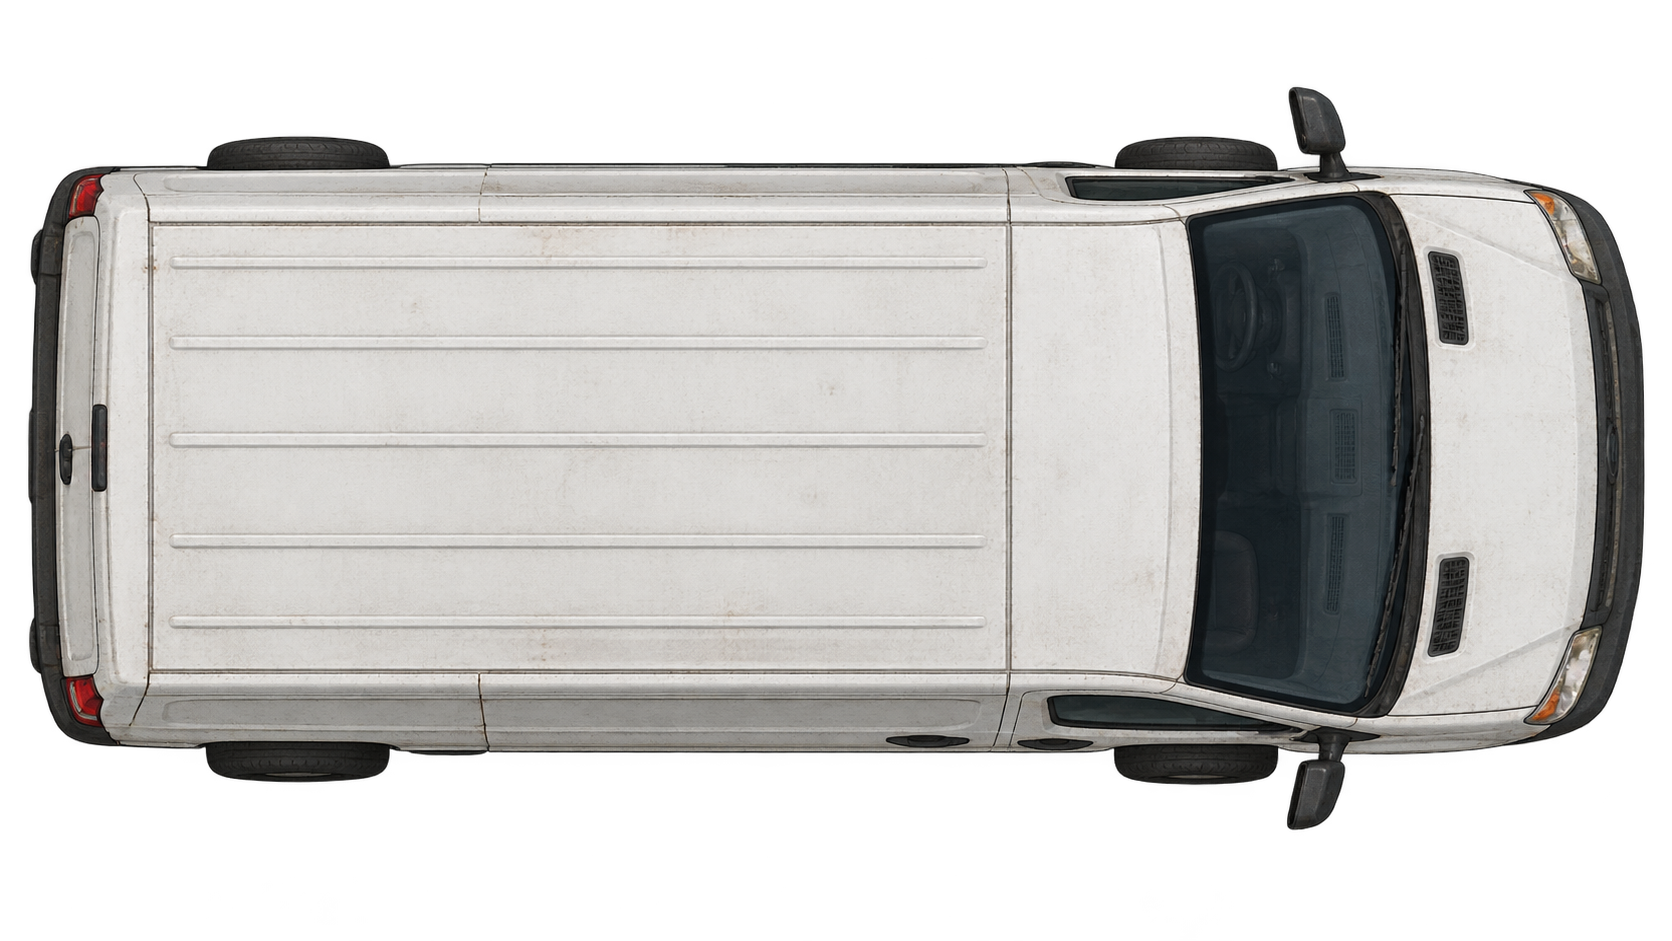
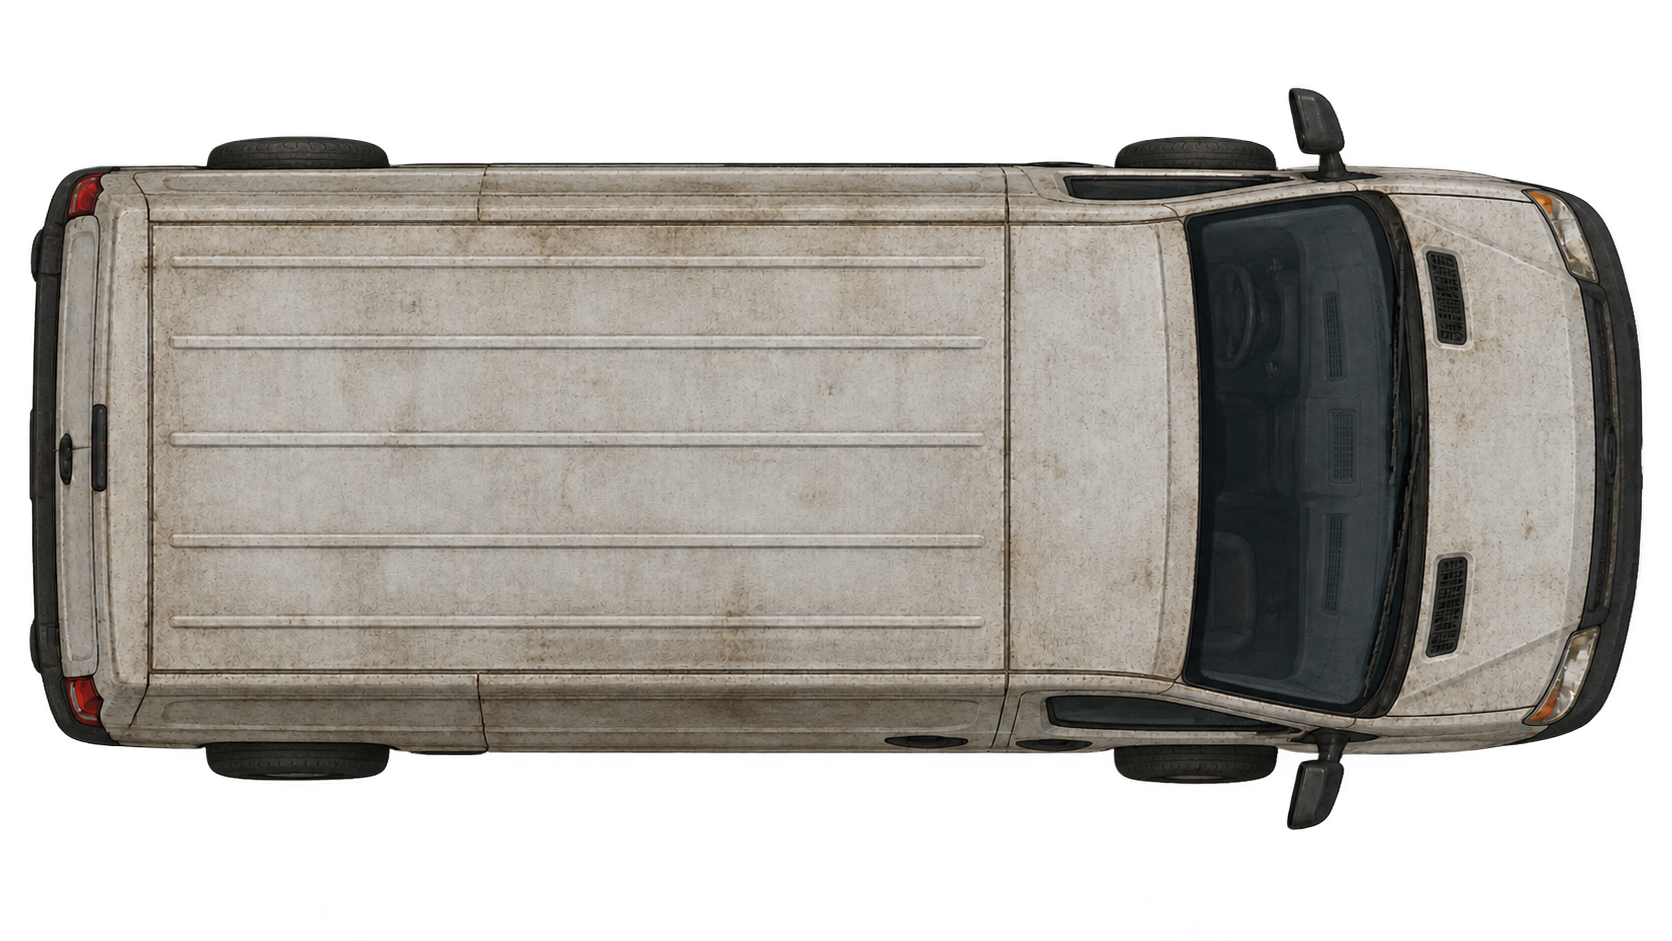
Add batch 2 directional vehicle damage assets

diff --git a/assets/incoming/cars/directional-damage-batch2-v1/DIRECTIONAL_DAMAGE_BATCH2_PROMPTS_v1.md b/assets/incoming/cars/directional-damage-batch2-v1/DIRECTIONAL_DAMAGE_BATCH2_PROMPTS_v1.md
@@ -1,0 +1,66 @@
+# Directional Damage — Batch 2 Prompts v1
+
+## Included identities
+
+- taxi
+- SUV
+- police cruiser
+- Humvee
+- hatchback
+- box truck
+
+## Deliberately skipped repeats and terminal states
+
+- grey sedan
+- faded-red sedan
+- pickup
+- panel van
+- burned wreck
+- overturned car
+
+The repeated vehicle identities already have directional-damage sets. The wreck and overturned car are terminal states rather than intact vehicles suitable for four directional branches.
+
+## Orientation and filenames
+
+All sprites use a strict 90-degree top-down view with the nose pointing right.
+
+- `*_shot_front.png`: fire enters at the right/nose and exits at the left/rear.
+- `*_shot_rear.png`: fire enters at the left/rear and exits at the right/nose.
+- `*_shot_driver_side.png`: fire enters along the upper edge and exits along the lower edge.
+- `*_shot_passenger_side.png`: fire enters along the lower edge and exits along the upper edge.
+
+Each direction is an independent branch made from the intact source, not a cumulative damage ladder.
+
+## Common damage prompt
+
+> Edit this exact intact vehicle into a localized directional pass-through gunfire-damage branch. Concentrate approximately 70% of the visible damage on the entry face using denser bullet strikes, stronger dents, and localized broken glass. Add approximately 30% as fewer, cleaner, aligned exit punctures with lighter outward deformation on the opposite face. Keep the broad middle and unrelated panels mostly intact, with at least 60% of the vehicle visually undamaged. Preserve the exact vehicle model, paint and wear, wheelbase, trim, wheels, equipment, strict 90-degree top-down view, nose pointing right, scale, placement, lighting, and silhouette. Use genuine transparent alpha. No global or symmetrical damage, random hits outside the trajectory, burn, scorch, fire, smoke, scenery, added text, logos, or watermark.
+
+## Identity locks
+
+### Taxi
+
+Preserve the yellow sedan, roof taxi sign and existing lettering, checker details, windows, and proportions.
+
+### SUV
+
+Preserve the dark-green taller body, long roof, roof rails, window layout, and larger proportions.
+
+### Police cruiser
+
+Preserve the black-and-white livery, existing insignia and markings, red/blue lightbar, push bumper, spotlights, and antenna. Do not move, remove, replace, or invent emergency equipment.
+
+### Humvee
+
+Use armor-appropriate damage: impact cups, chipped coating, scraped bare metal, shallow plate deformation, and only limited penetrations. Preserve the tan armored body, turret ring and hatch, roof plates, hinges, rear spare tire, fuel cans, storage boxes, stowed bag, racks, and armored windshield sections. The entry side remains visibly worse, but armor stops many rounds; the opposite side receives only a small aligned exit group. At least 65% remains visually undamaged.
+
+### Hatchback
+
+Preserve the pale mint-white paint, rounded compact body, short wheelbase, small wheels, antenna, window layout, and rear hatch. Never enlarge it or turn it into a sedan.
+
+### Box truck
+
+Preserve the pale-green compact cab, long rectangular cargo box, cab/box separation, rivet rows, panel seams, corner caps, cab roof ribs, windshield, and mirrors. Never shorten, widen, open, or reshape the box, and never add cargo-box windows or branding.
+
+## Output handling
+
+Assets were generated serially, one vehicle identity at a time, using built-in ImageGen. Final PNGs use the intact source's dimensions and alpha silhouette. Two passenger-side renders required deterministic localization of the generated impact pixels over the untouched source sprite to remove placement fringe while retaining the approved damage pattern.
